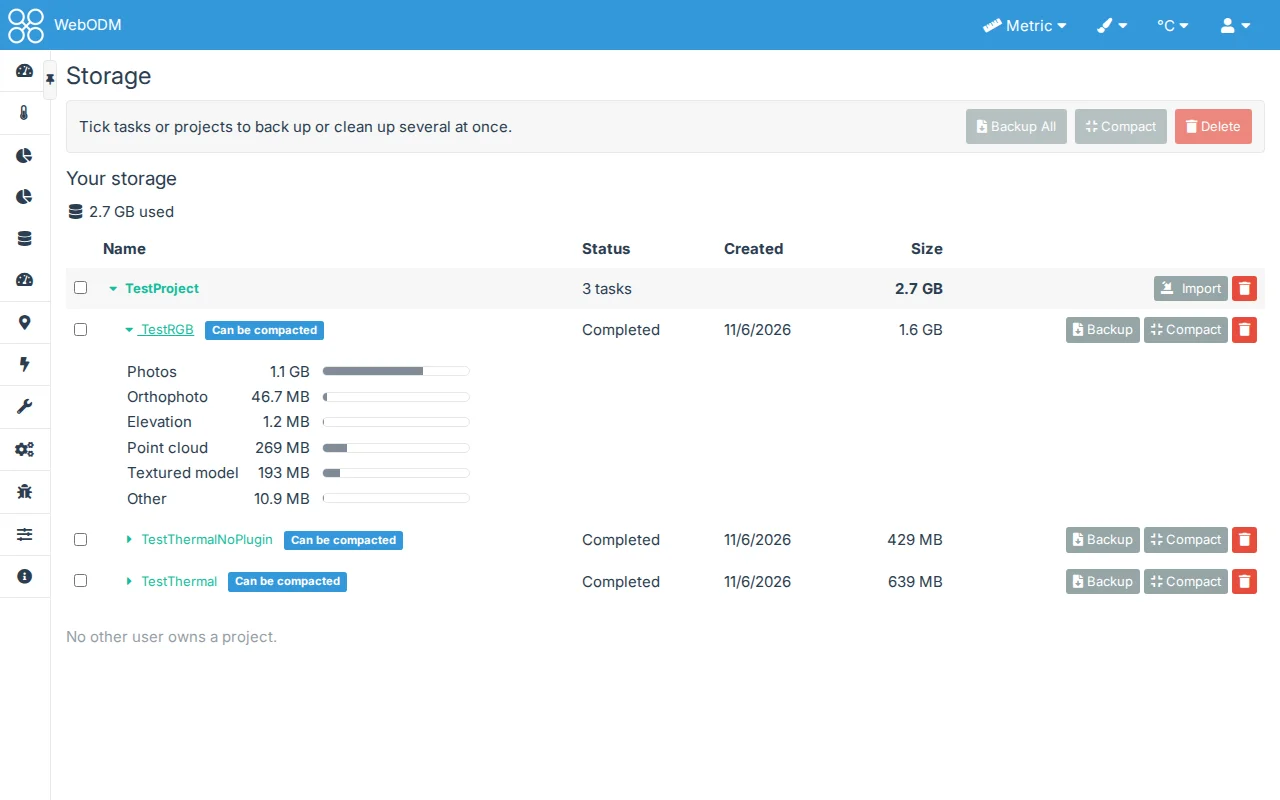
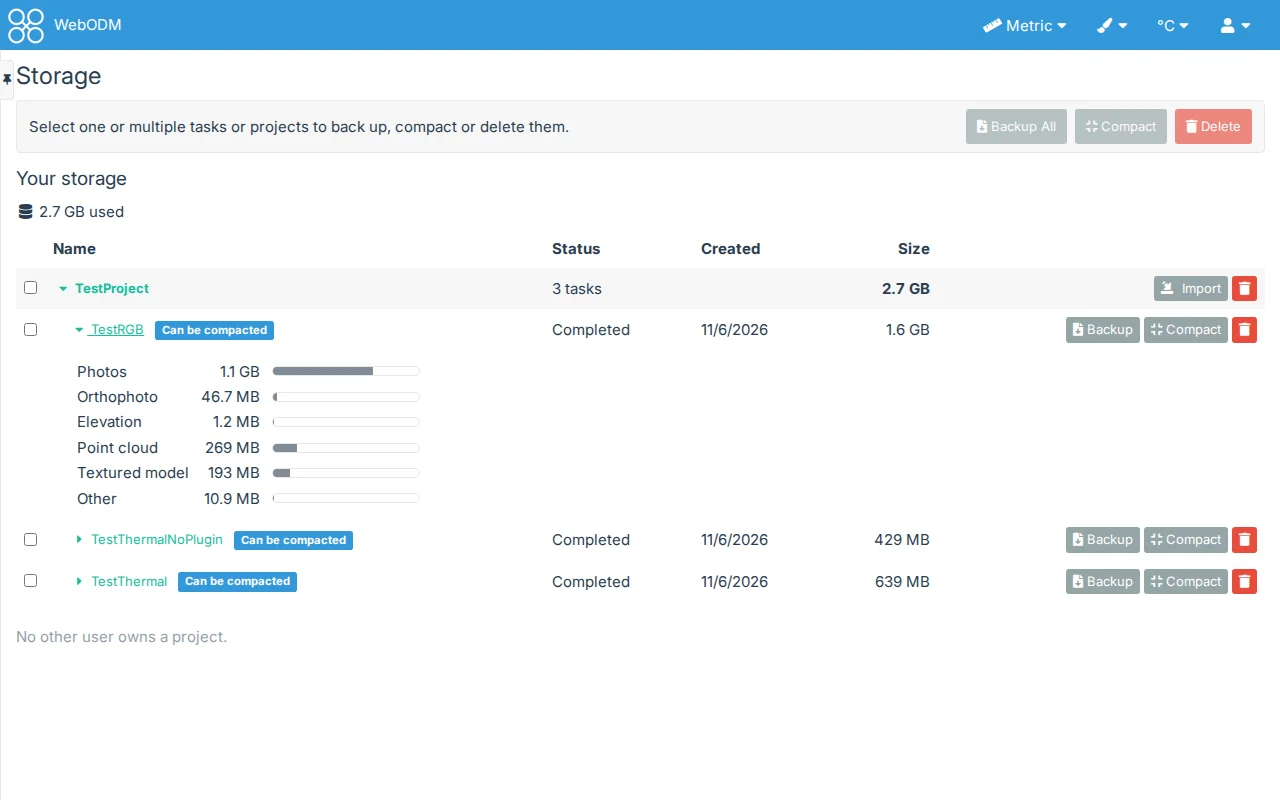
Storage View: the selection bar asks to select one or multiple tasks or projects

diff --git a/tweakui/templates/storage.html b/tweakui/templates/storage.html
@@ -8,7 +8,7 @@
     <h3>{% trans "Storage" %}</h3>
     {% if on %}
     <div class="tweakui-storage-actions theme-border theme-background-highlight">
-        <span class="tweakui-storage-selected">{% trans "Tick tasks or projects to back up or clean up several at once." %}</span>
+        <span class="tweakui-storage-selected">{% trans "Select one or multiple tasks or projects to back up, compact or delete them." %}</span>
         <button type="button" class="btn btn-default btn-sm" data-act="backup-selected" disabled title="{% trans "Backup All: download each completed task as a zip" %}"><i class="fa fa-file-download"></i> {% trans "Backup All" %}</button>
         <button type="button" class="btn btn-default btn-sm" data-act="compact-selected" disabled><i class="fa fa-compress"></i> {% trans "Compact" %}</button>
         <button type="button" class="btn btn-danger btn-sm" data-act="delete-selected" disabled><i class="fa fa-trash"></i> {% trans "Delete" %}</button>

diff --git a/tweakui/public/__tests__/storage_page.test.js b/tweakui/public/__tests__/storage_page.test.js
@@ -152,7 +152,7 @@ test("Delete asks first, naming each project and task and what it frees, and onl
     expect(fetchFn.mock.calls.find(c => c[0] === "/api/projects/10/")[1].headers["X-CSRFToken"]).toBe("tok");
     expect(fetchFn.calls.filter(c => c[1] === "/api/plugins/tweakui/storage").length).toBe(2);
     expect(root.querySelector(".tweakui-storage-status").textContent).toBe("Deleted.");
-    expect(root.querySelector(".tweakui-storage-selected").textContent).toMatch(/^Tick/);
+    expect(root.querySelector(".tweakui-storage-selected").textContent).toBe("Select one or multiple tasks or projects to back up, compact or delete them.");
 });
 
 test("Cancel leaves everything as it is", async () => {

diff --git a/tweakui/public/storage_page.js b/tweakui/public/storage_page.js
@@ -202,7 +202,7 @@
     function renderSelection(page, state) {
         var p = plan(state), n = p.projects.length + p.tasks.length;
         var text = page.querySelector(".tweakui-storage-selected");
-        if (!n) text.textContent = "Tick tasks or projects to back up or clean up several at once.";
+        if (!n) text.textContent = "Select one or multiple tasks or projects to back up, compact or delete them.";
         else {
             var parts = [];
             if (p.projects.length) parts.push(p.projects.length + (p.projects.length === 1 ? " project" : " projects"));

diff --git a/docs/storage.md b/docs/storage.md
@@ -18,8 +18,8 @@ other files. Projects shared with you are not listed: they count toward their ow
 
 ## Cleaning up
 
-Use a row's own **Compact** or **Delete**, or tick several tasks and projects and use the bar's **Compact** or
-**Delete** (ticking a project includes all its tasks). Before anything is done, a confirmation lists what will be
+Use a row's own **Compact** or **Delete**, or select one or multiple tasks and projects with their checkboxes and use
+the bar's **Compact** or **Delete** (selecting a project includes all its tasks). Before anything is done, a confirmation lists what will be
 removed and how much space it frees. Compact deletes a completed task's photos and keeps its maps and models (the task
 can no longer be restarted). The work is done by WebODM itself, as from the Dashboard, with its own permissions and
 quota.
@@ -27,8 +27,8 @@ quota.
 ## Backup and Import
 
 A completed task's **Backup** downloads the whole task as a zip: WebODM's own backup, the same file as the
-**Backup** item of the task's **Download** menu, with its photos, results, options and name. Tick several tasks or
-projects and use the bar's **Backup All** to download one zip for each completed task among them, one after another
+**Backup** item of the task's **Download** menu, with its photos, results, options and name. Select one or
+multiple tasks or projects and use the bar's **Backup All** to download one zip for each completed task among them, one after another
 (the browser may ask once to allow several downloads); tasks that are not completed are skipped, and the status line
 says how many.
 

diff --git a/upcoming-changes.md b/upcoming-changes.md
@@ -3,14 +3,19 @@
 ## Phases (current and upcoming)
 
 **Up next**
-1. **Storage View: the selection bar's message** — see "Storage View: the selection bar's message".
-2. **Administration: TweakUI Themes merged into Administration > TweakUI** — see "Administration: one page".
+1. **Administration: TweakUI Themes merged into Administration > TweakUI** — see "Administration: one page".
 
 **Later**
 - **Global Controls: Temperature in Header** — deferred by the user (2026-11-07) until WebODM offers Fahrenheit or a
   cleaner hook; see "Global Controls: units and temperature in the header".
 
 **Done**
+- **Storage View: the selection bar's message** (new.md, 2026-11-09) — branch `storage-message`: `storage.html` and
+  `storage_page.js` (`renderSelection`) say "Select one or multiple tasks or projects to back up, compact or delete
+  them." Tests: `storage_page.test.js` (the whole text after a Delete, where it matched "Tick" before). Docs
+  `storage.md` ("select" for "tick"), CHANGELOG, screenshot `storage`. Live on 4.0.0 (desktop and phone: it wraps
+  above the buttons) and 3.3.2 (Storage View turned on for the check and back off). Django not run: no Python changed
+  and no Django test reads the text.
 - **Performance View: the graphs' readings kept over a reload** (new.md, 2026-11-09) — branch
   `perf-history-reload`: `performance_page.js` (`packReadings`, values to 4 decimals; `unpackReadings`, readings
   checked and those older than 30 minutes dropped, the counters only within the gap; `saveReadings` after a reading

diff --git a/CHANGELOG.md b/CHANGELOG.md
@@ -4,6 +4,8 @@
 
 ### Diagnostic
 
+- Storage View: the bar above the projects says "Select one or multiple tasks or projects to back up, compact or
+  delete them." until something is selected.
 - Performance View: the graphs' readings survive a reload of the page (Ctrl+R or F5) in the same browser tab (its
   session storage); nothing is measured while the page isn't open.
 - Performance View: each graph has its scale inside it (its top, 0, a line at half height), a time line under it
